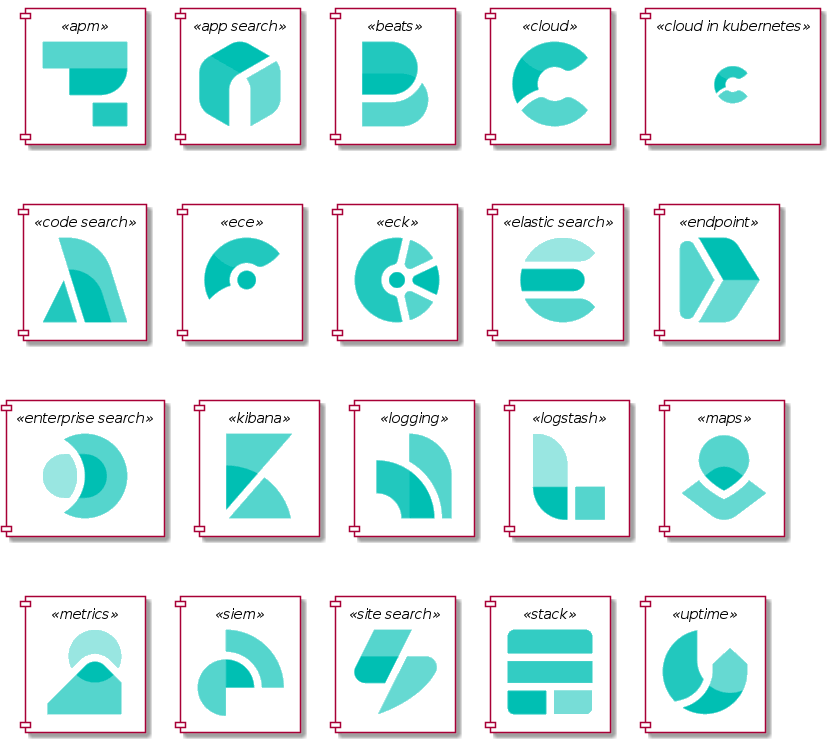
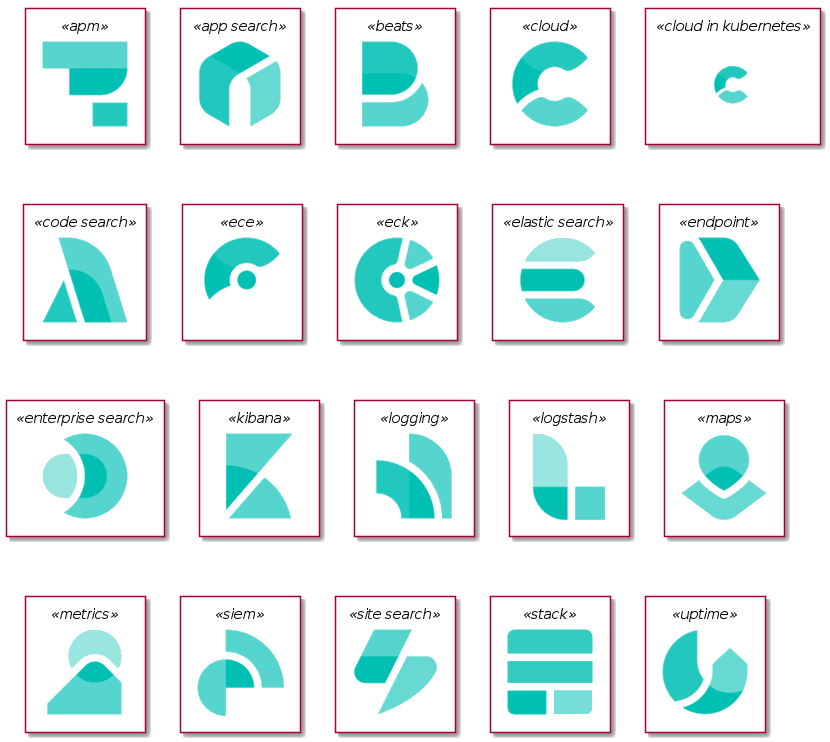
Changed sprite background default to agent. Add demo diagram with more features.

diff --git a/README.md b/README.md
@@ -6,7 +6,7 @@ Sprites from [elastic](www.elastic.co) for use with PlantUML:
 
 # Using PlantUML Elastic Sprites
 
-## Demo
+## Basic Use
 
 ![](examples/S3_ELK.png)
 
@@ -25,6 +25,36 @@ Logstash -right-> ElasticSearch: Transformed Data
 ElasticSearch -right-> Kibana: Data to View
 
 ````
+
+## Add More Features
+
+![](examples/S3_ELK_Cloud.png)
+
+PlantUML source extract that creates this diagram. 
+See full source ./S3_ELK_Cloud.puml
+
+````
+AWSCLOUD(aws) {
+
+    AMAZONS3(s3_bucket,"Logs uploaded to here")
+
+package Elastic {
+
+    'add "node", "component", "agent" etc... to change background shape per https://plantuml.com/deployment-diagram
+    'default is agent 
+    ELASTIC_SEARCH(ElasticSearch, "Search and Analyze",database)
+    LOGSTASH(Logstash, "Parse and Transform",node)
+    KIBANA(Kibana, "Visualize",agent) 
+}
+
+    s3_bucket -down-> Logstash: Raw logs
+    Logstash -right-> ElasticSearch: Transformed Data
+    ElasticSearch -right-> Kibana: Data to View
+
+}
+
+````
+
 
 ## Full Sprite Set
 
@@ -99,14 +129,24 @@ mv  ./dist/elastic ../../plantuml-elastic
 
 ```
 
-# PlantUML Sprite Colors
+# Sprite Background Shape
+
+Plantuml allows setting each sprite background shape
+* default. Default set to agent for the Elastic icons which is a square.
+* when we use it by adding a third parameter e.g. "node" per KIBANA(Kibana, "Visualize",node) 
+
+This is done using the [Plantuml Deployment Diagram definitions](https://plantuml.com/deployment-diagram) where the list of options is defined.
+
+The 
+
+# Sprite Colors
 Sprites are monochrome per https://plantuml.com/sprite.
 
 Elastic icons are multi-color.
 
 It's useful to identify Elastic sprites by color (versus e.g. AWS sprites) e.g.
 * Elastic Green Background with Black Foreground
-* Elastic Green Foreground with While Background
+* Elastic Green Foreground with White Background
 
 I opted for the latter as it looked better.
 
